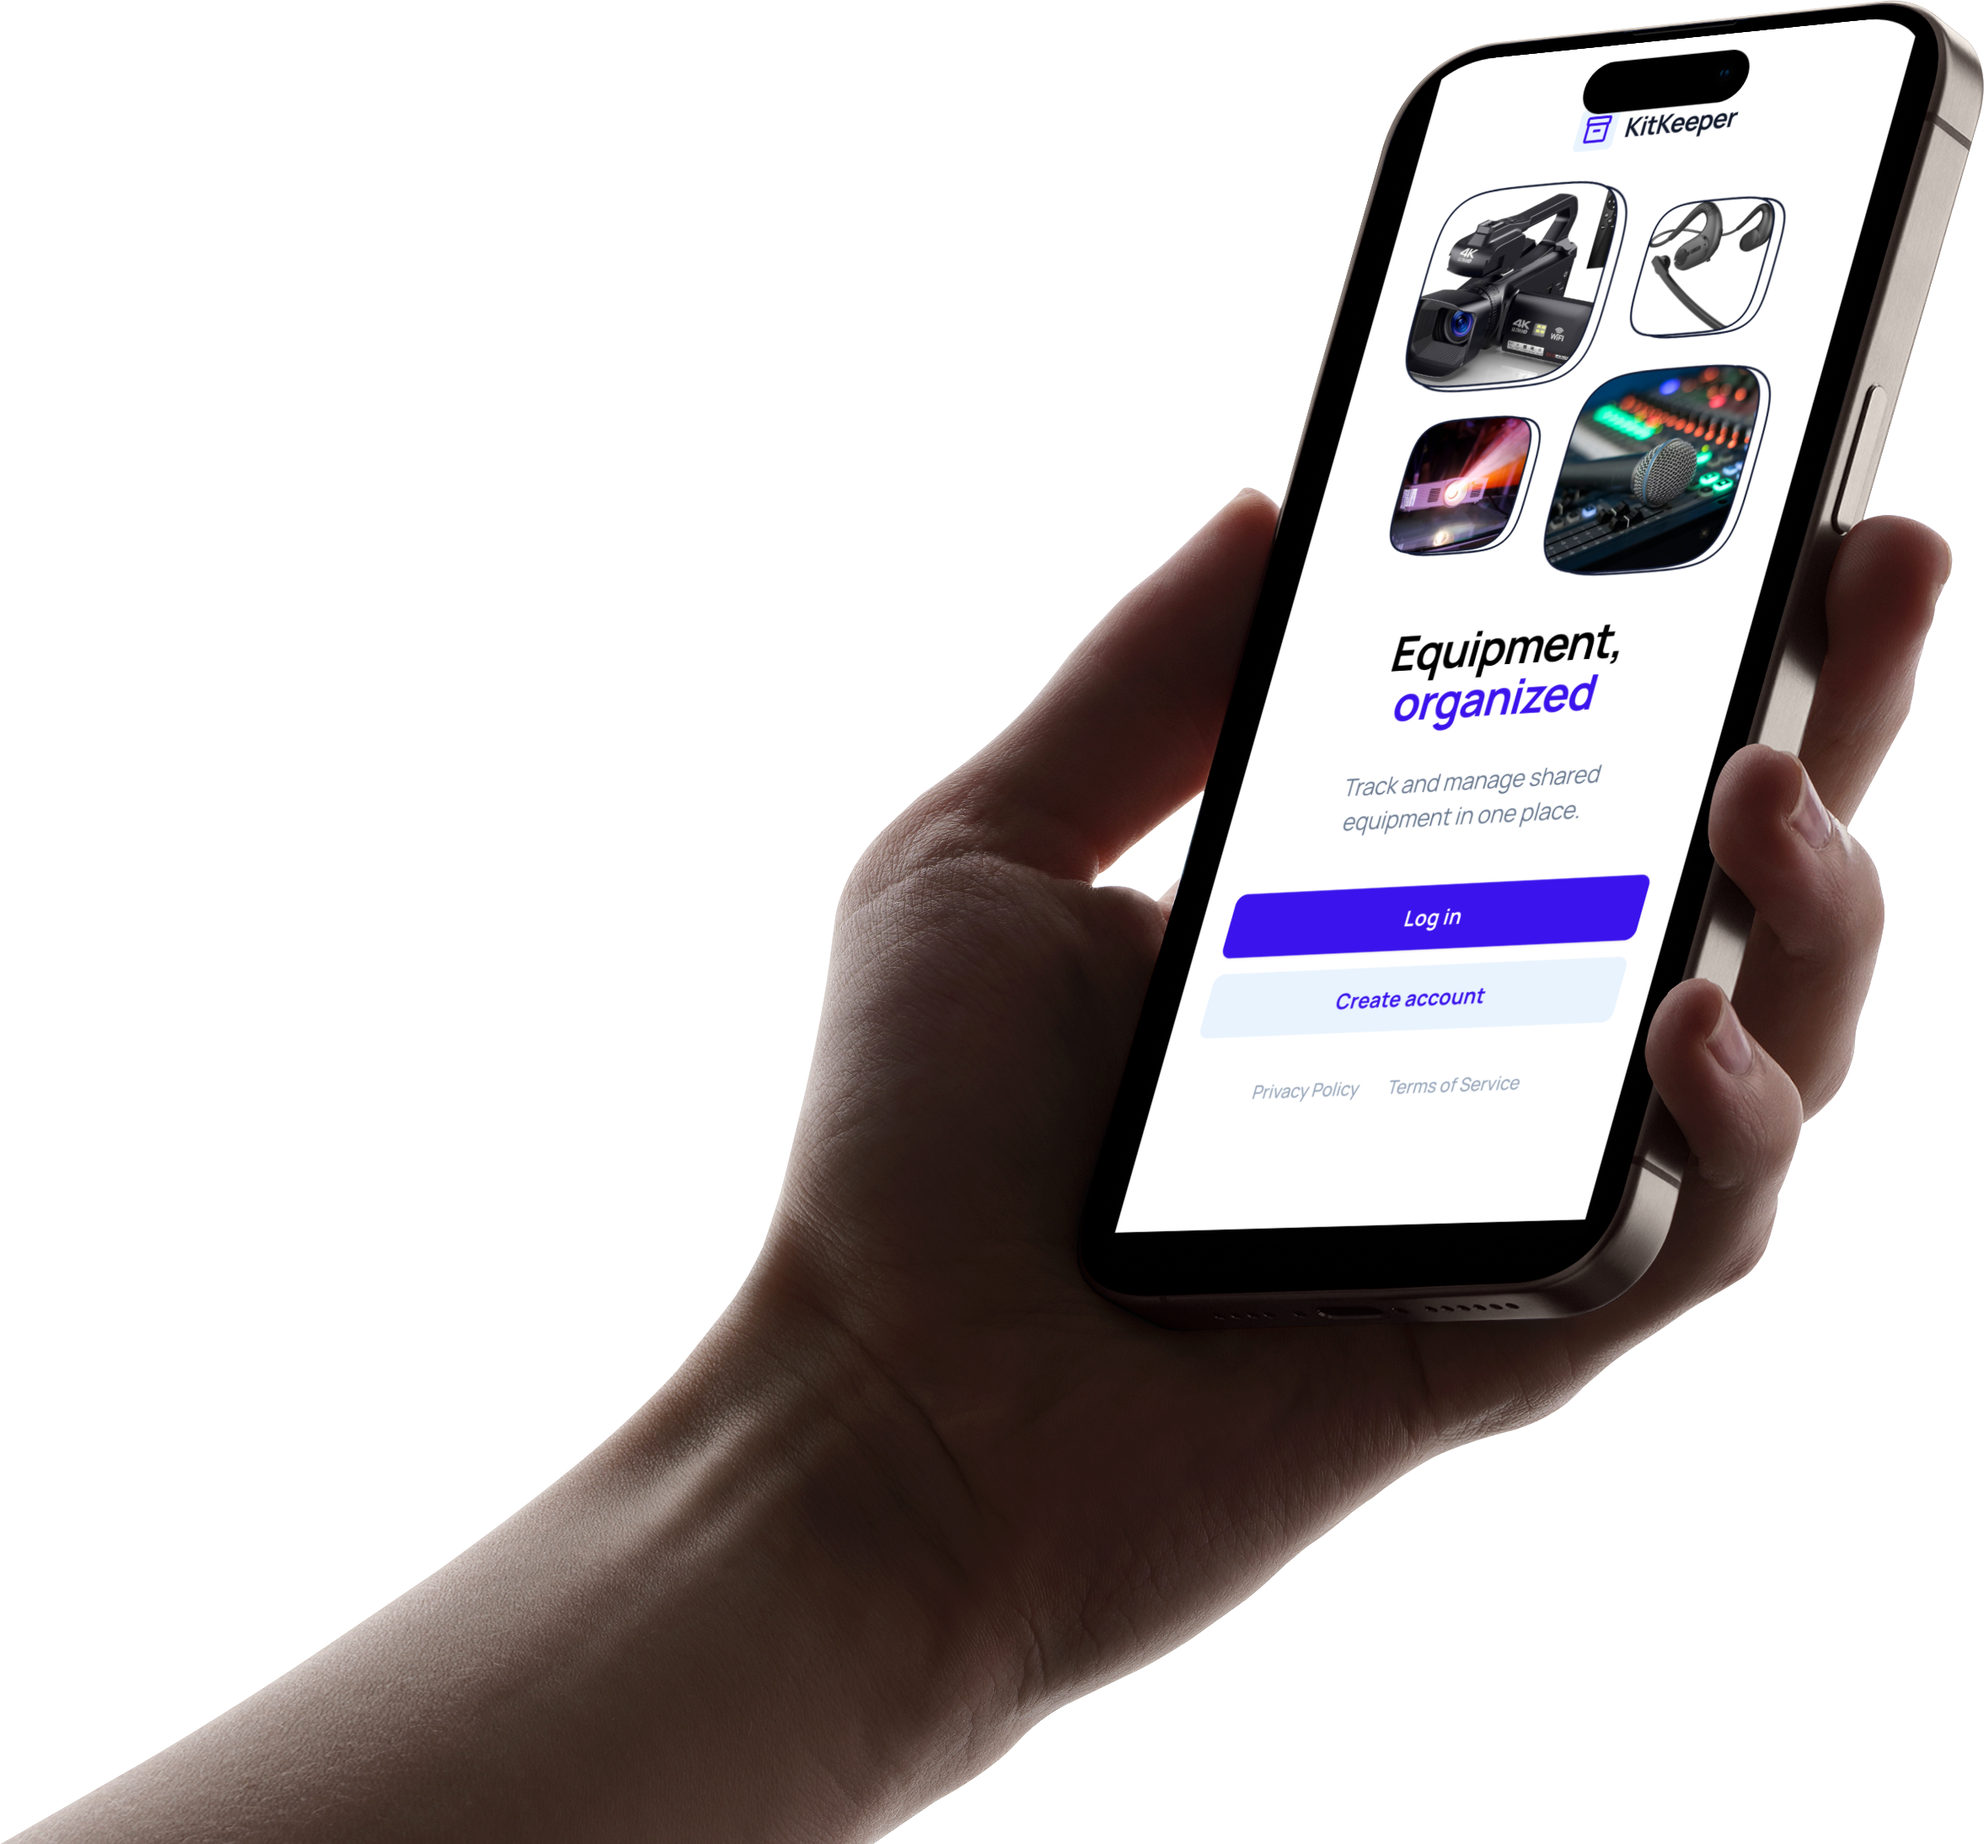
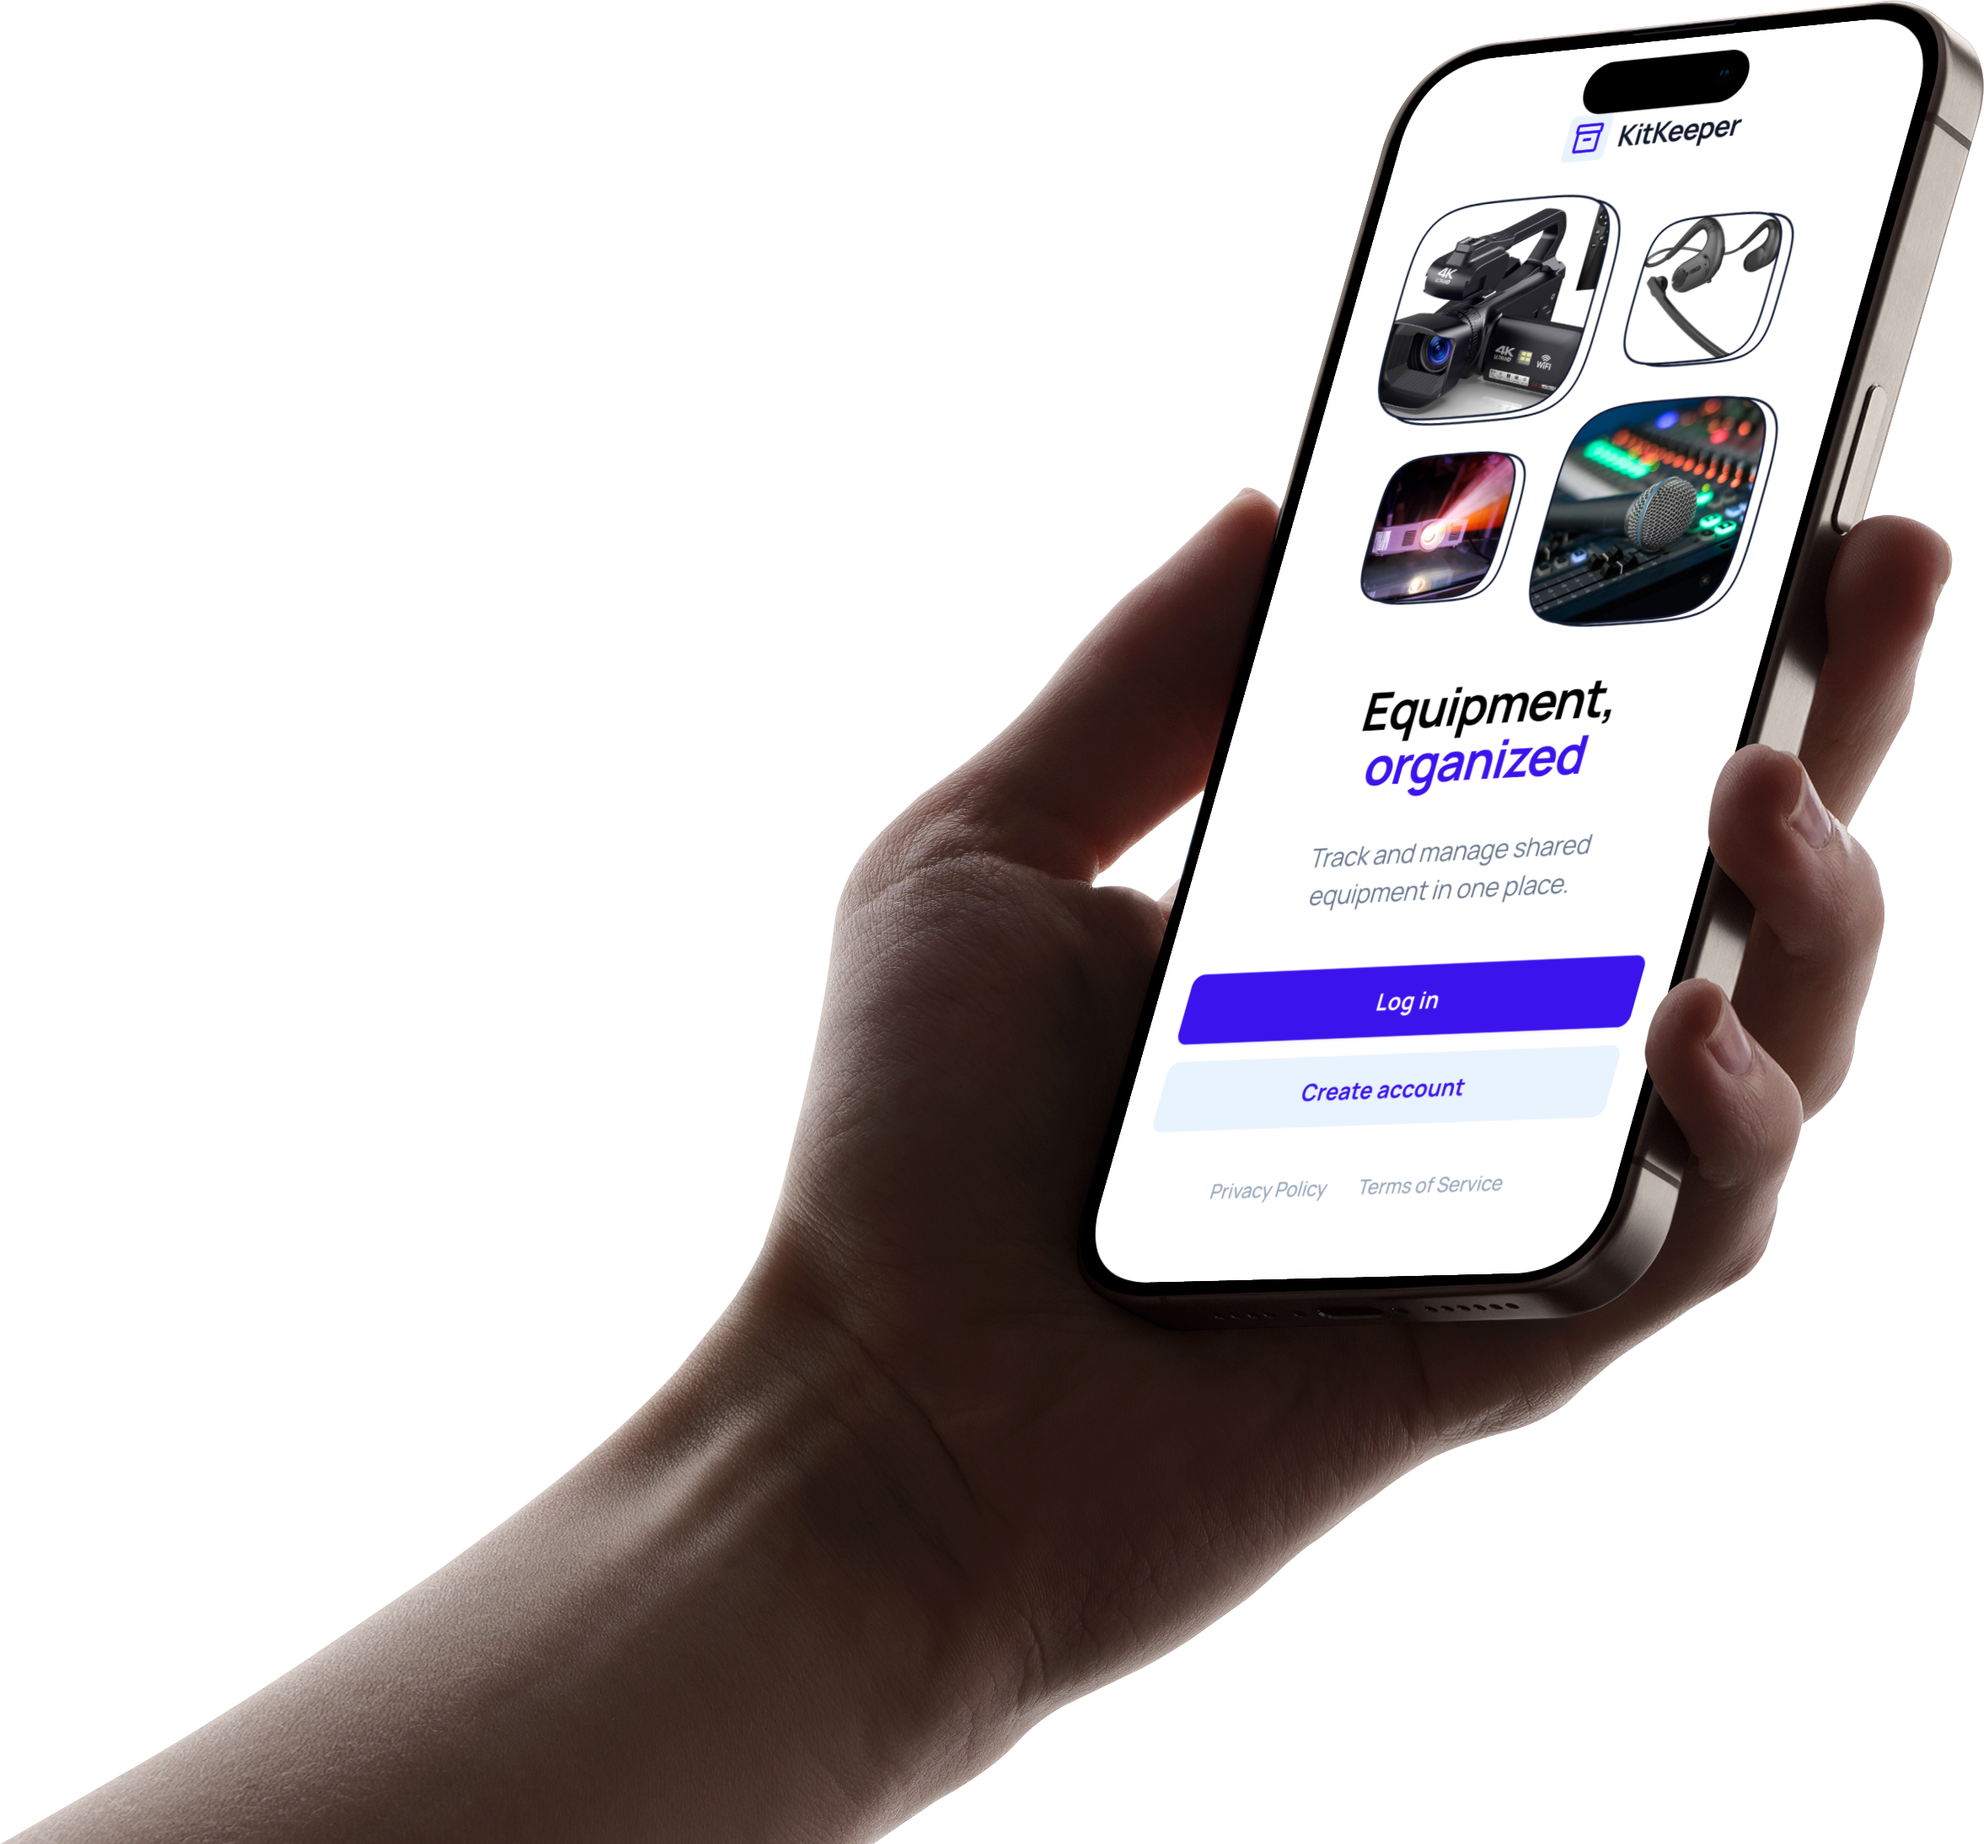
Increase hero bottom margin significantly

Changed region(s): [[0.5272, 0.0311, 0.9924, 0.7148]]

diff --git a/src/utils/caseStudies.jsx b/src/utils/caseStudies.jsx
@@ -160,21 +160,9 @@ export const CASE_STUDIES = [
     id: 'designer-5',
     departmentId: 'designer',
     themeColor: '#0E172A',
-    vaultImage: '',
-    textOnlyPreview: true,
+    vaultImage: '/assets/kitkeeper-hero.png',
     noGlow: true,
-    vaultLogo: (
-      <div style={{
-        fontSize: '1.2rem',
-        fontWeight: 'bold',
-        color: '#F8F7FF',
-        letterSpacing: '0.05em',
-        textAlign: 'center',
-        lineHeight: '1.2'
-      }}>
-        KitKeeper
-      </div>
-    ),
+    vaultLogo: <img src="/assets/kitkeeper-cover.png" alt="KitKeeper" style={{ width: '250px', height: 'auto', filter: 'drop-shadow(0 10px 20px rgba(0,0,0,0.4))' }} />,
     category: 'EQUIPMENT MANAGEMENT SAAS',
     title: 'KitKeeper Authentication',
     role: 'Product Design',

diff --git a/src/styles/caseStudy.css b/src/styles/caseStudy.css
@@ -147,6 +147,10 @@
   position: relative;
 }
 
+.hero-image-block {
+  margin-bottom: 8rem !important;
+}
+
 .hero-image-block .image-placeholder-glass {
   min-height: 400px;
   height: auto;
